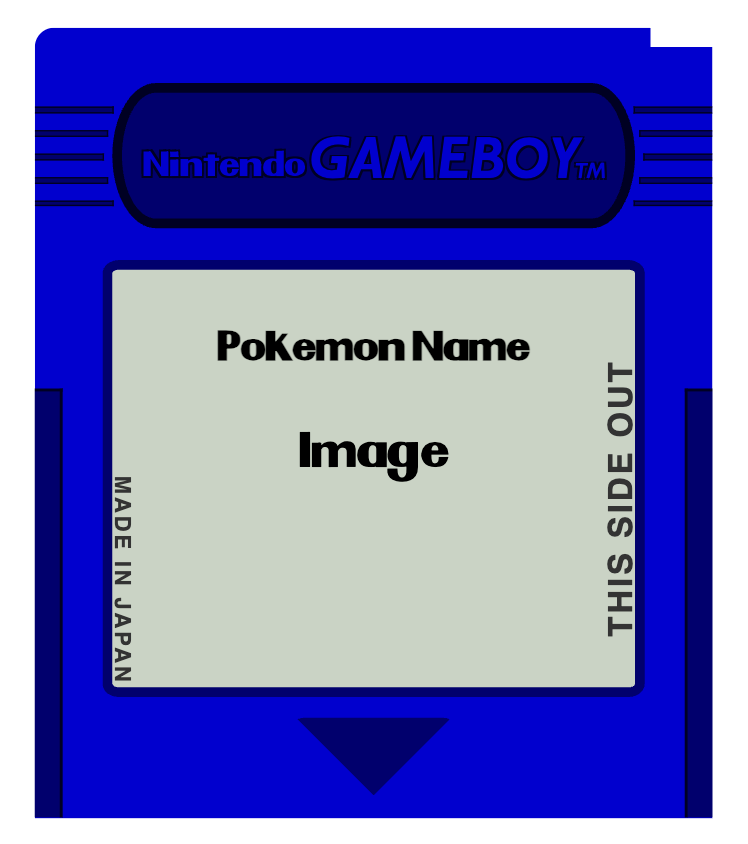
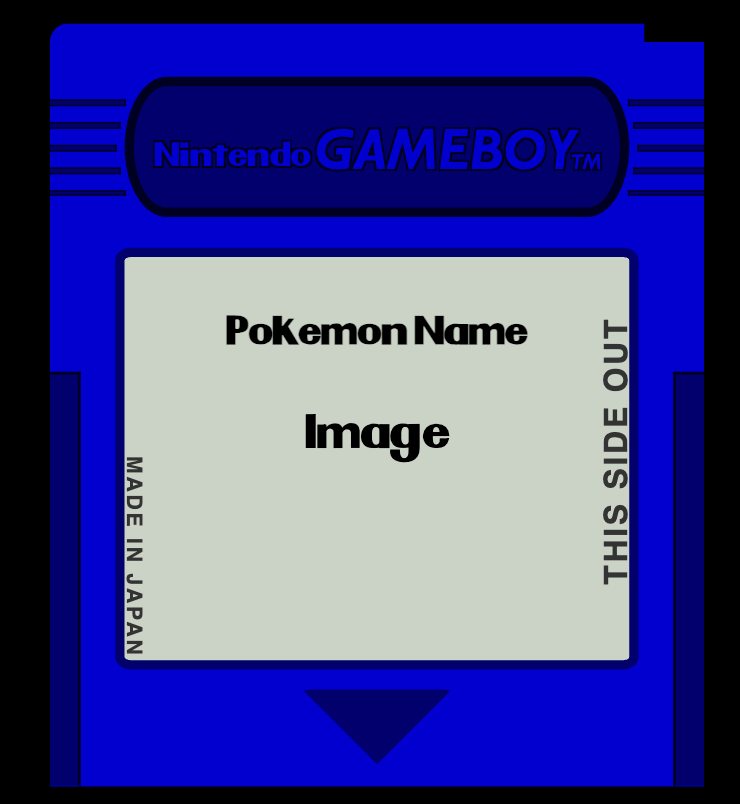
Image Change

Changed region(s): [[0.0, 0.0, 1.0, 1.0], [0.2797, 0.3731, 0.7149, 0.4353], [0.373, 0.4975, 0.6216, 0.5908]]

diff --git a/styles.css b/styles.css
@@ -54,6 +54,10 @@
   --border: #725400;
 }
 
+body {
+  background-color: #000;
+}
+
 .cart-body {
   position: relative;
   display: grid;
@@ -151,9 +155,9 @@
   height: 154px;
   background-color: var(--secondary);
   top: 130.5px;
-  right: 235px;
+  right: 0px;
   border-top: 1.05px solid var(--border);
-  border-right: 1.05px solid var(--border);
+  border-left: 1.05px solid var(--border);
 }
 
 .side-notch__l {
@@ -162,9 +166,9 @@
   height: 154px;
   background-color: var(--secondary);
   top: 130.5px;
-  left: 235px;
+  left: 0px;
   border-top: 1.05px solid var(--border);
-  border-left: 1.05px solid var(--border);
+  border-right: 1.05px solid var(--border);
 }
 
 .side-text__r {
@@ -187,7 +191,7 @@
   letter-spacing: 1px;
   writing-mode: vertical-rl;
   transform: rotate(180deg);
-  top: 120px;
+  top: 110px;
   left: 205px;
   font-weight: 900;
 }
